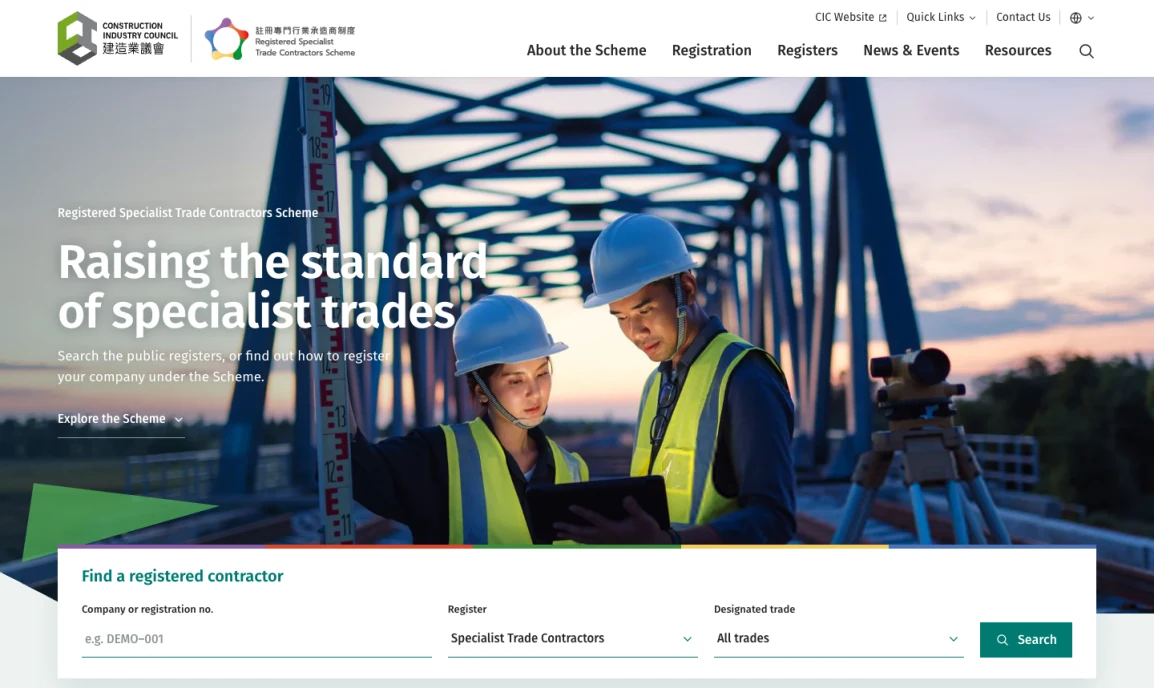
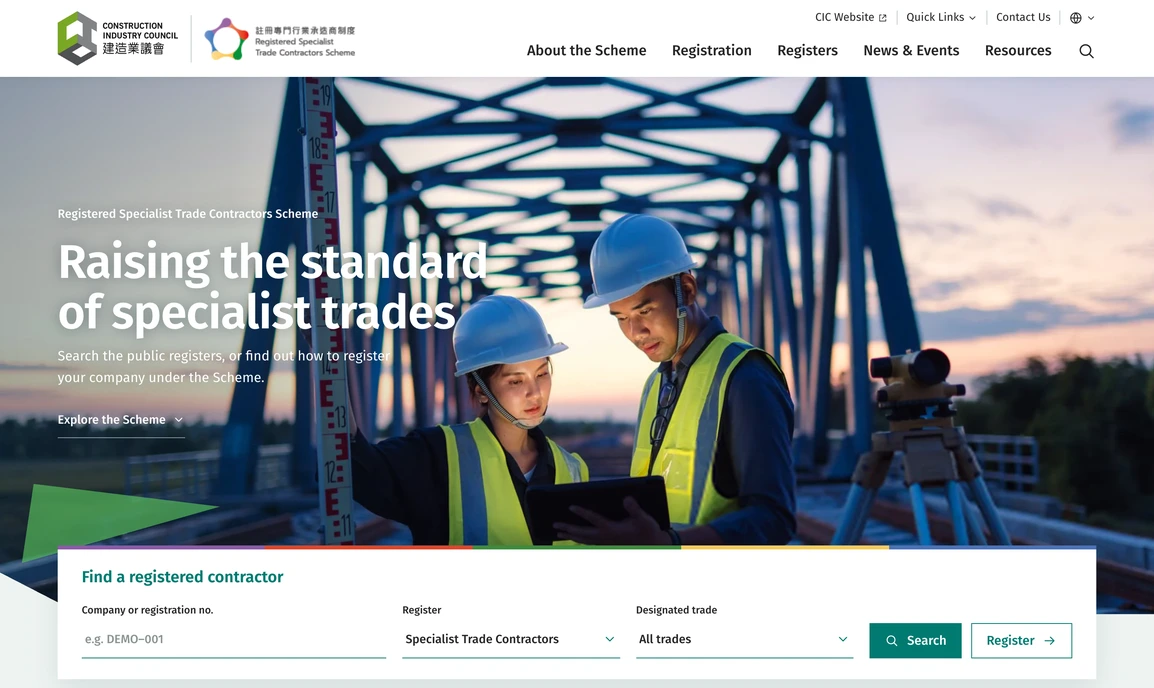
Add homepage registration actions and refresh preview covers

diff --git a/styles.css b/styles.css
@@ -132,9 +132,12 @@ body.scrolled .rstc-logo {width:150px}
 .hero p {max-width:440px;color:#fff;font-size:17px}
 
 .finder-wrap {position:relative;z-index:2;margin-top:-86px}
-.finder {display:grid;grid-template-columns:1.4fr 1fr 1fr auto;align-items:end;gap:20px;background:#fff;padding:22px 30px 26px;box-shadow:0 16px 36px #0a3d3a1c;border-top:5px solid transparent;border-image:var(--spectrum) 1}
+.finder {display:grid;grid-template-columns:minmax(0,1.4fr) minmax(0,1fr) minmax(0,1fr) auto;align-items:end;gap:20px;background:#fff;padding:22px 30px 26px;box-shadow:0 16px 36px #0a3d3a1c;border-top:5px solid transparent;border-image:var(--spectrum) 1}
 .finder-head {grid-column:1/-1;display:flex;align-items:center;gap:10px}
 .finder h2 {font-size:20px;font-weight:600}
+.finder-actions {display:flex;gap:12px}
+.finder-actions .btn {white-space:nowrap}
+.finder .finder-register {color:var(--teal)}
 label {display:grid;gap:4px;font-weight:500;font-size:13px}
 /* form fields: one bottom line only; dropdowns get a custom chevron instead of the browser's box */
 input,select {height:46px;padding:8px 4px;background:transparent;border:0;border-bottom:1px solid var(--teal);border-radius:0;width:100%;min-width:0;font:inherit;font-size:15px;color:var(--ink);box-shadow:none}
@@ -507,6 +510,8 @@ body[data-clean=true] .review-bar {display:none}
  .rstc-logo {width:160px}
  .nav {gap:18px}
  .nav a,.nav button {font-size:17px}
+ .finder {grid-template-columns:1.4fr 1fr 1fr}
+ .finder-actions {grid-column:1/-1;justify-self:start}
 }
 @media(max-width:1120px) {
  :root {--head:84px}
@@ -515,8 +520,6 @@ body[data-clean=true] .review-bar {display:none}
  .hero-in {padding-top:24px}
  .filters {grid-template-columns:1fr 1fr 1fr}
  .filters .btn {grid-column:1/-1;justify-self:start}
- .finder {grid-template-columns:1fr 1fr 1fr}
- .finder .btn {grid-column:1/-1;justify-self:start}
 }
 @media(max-width:980px) {
  :root {--head:72px;--hh:60px}
@@ -565,7 +568,8 @@ body[data-clean=true] .review-bar {display:none}
  .hero-visual::after {background:linear-gradient(180deg,#0627364d 0%,transparent 26%,#0627365c 46%,#062736d9 100%)}
   .finder-wrap {margin-top:-80px}
  .finder {grid-template-columns:1fr;padding:18px;gap:12px}
- .finder .btn {width:100%}
+ .finder-actions {justify-self:stretch}
+ .finder-actions .btn {flex:1;min-width:0}
  .section {padding-block:38px}
  .update-tabs {gap:14px;margin-bottom:16px}
  .update-tabs button {font-size:13px}

diff --git a/prototype.js b/prototype.js
@@ -262,7 +262,10 @@ const home = () => `
    <label>Company or registration no.<input name="q" placeholder="e.g. DEMO–001"></label>
    <label>Register<select name="register"><option value="">Specialist Trade Contractors</option><option value="rs">Sub-contractors</option></select></label>
    <label>Designated trade<select name="trade"><option value="">All trades</option><option>Structural steelwork</option><option>Truss-out scaffolding</option><option>Site lifting operations</option></select></label>
-   <button class="btn">${i("search")} Search</button>
+   <div class="finder-actions">
+    <button class="btn" type="submit">${i("search")} Search</button>
+    <a class="btn ghost finder-register" href="${url("apply")}">Register ${i("arrow")}</a>
+   </div>
   </form>
  </section>
  <section class="wrap section home-news" aria-labelledby="updates-title"><i class="deco id-lines-large id-news" aria-hidden="true"></i>
@@ -467,6 +470,14 @@ const templates={home,milestones:theme==="a"?milestoneB:milestone,register:reg,a
 if(page==="milestones"&&theme==="a")document.body.dataset.pin="1";
 const syncHead=()=>document.body.classList.toggle("scrolled",scrollY>24||document.body.dataset.pin==="1");addEventListener("scroll",syncHead,{passive:true});
 document.getElementById("app").innerHTML=header()+'<main id="main" tabindex="-1">'+templates[page]()+'</main>'+footer;syncHead();
+
+if(page==="home"){
+ const registerSelect=document.querySelector('.finder select[name="register"]');
+ const registerLink=document.querySelector('.finder-register');
+ registerSelect.addEventListener("change",()=>{
+  registerLink.href=url("apply",theme,registerSelect.value==="rs"?"&route=rs":"");
+ });
+}
 
 /* ---------- Option B homepage illustration sequence ---------- */
 if(theme==="b"&&page==="home"&&!motionPreference.matches){
